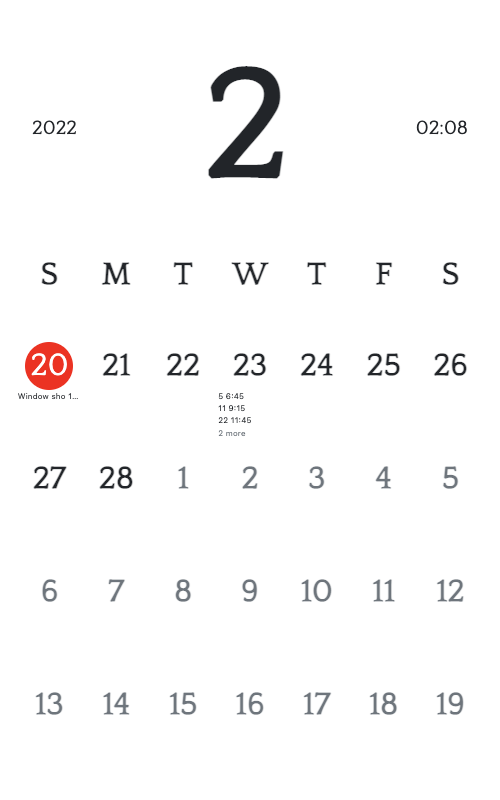
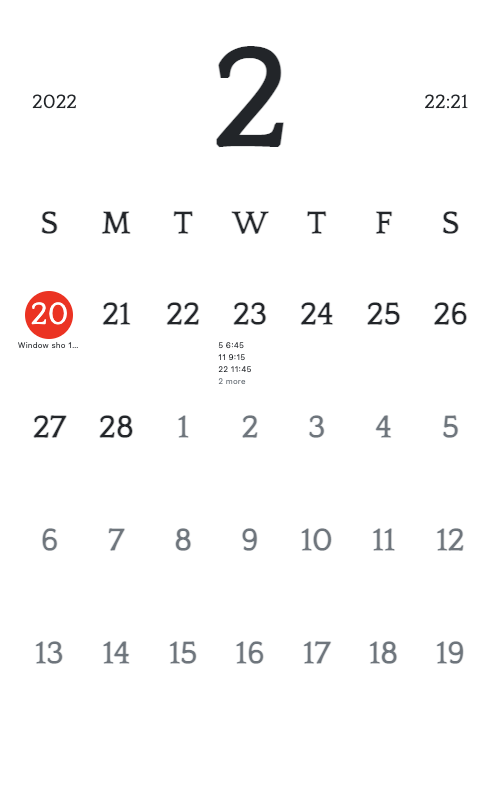
adjust margin after top header

diff --git a/render/styles.css b/render/styles.css
@@ -97,7 +97,8 @@ Calendar Styling */
 
 .top-header {
     font-family: Quattrocento-Regular;
-    margin: 1rem;
+    margin-left: 1rem;
+    margin-right: 1rem;
 }
 
 .time-info {
@@ -105,7 +106,7 @@ Calendar Styling */
 }
 
 .month {
-    font-size: 10rem;
+    font-size: 9rem;
     font-family: "Quattrocento-Regular";
 }
 
@@ -170,7 +171,7 @@ Calendar Styling */
 }
 
 .calendar .days li .event {
-    font-size: .5rem;
+    font-size: .75rem;
     /* font-weight: bold;*/
     padding: 0.1rem;
     /* color: black; */

diff --git a/render/calendar.html b/render/calendar.html
@@ -12,7 +12,7 @@
              style="display:flex;justify-content:space-between;">
             <div class="time-info">2022</div>
             <h3 class="month font-weight-bold mb-0 text-uppercase">2</h3>
-            <div class="time-info">02:08</div>
+            <div class="time-info">22:21</div>
         </div>
         <!-- Days of week -->
         <ol class="day-names list-unstyled text-center">
